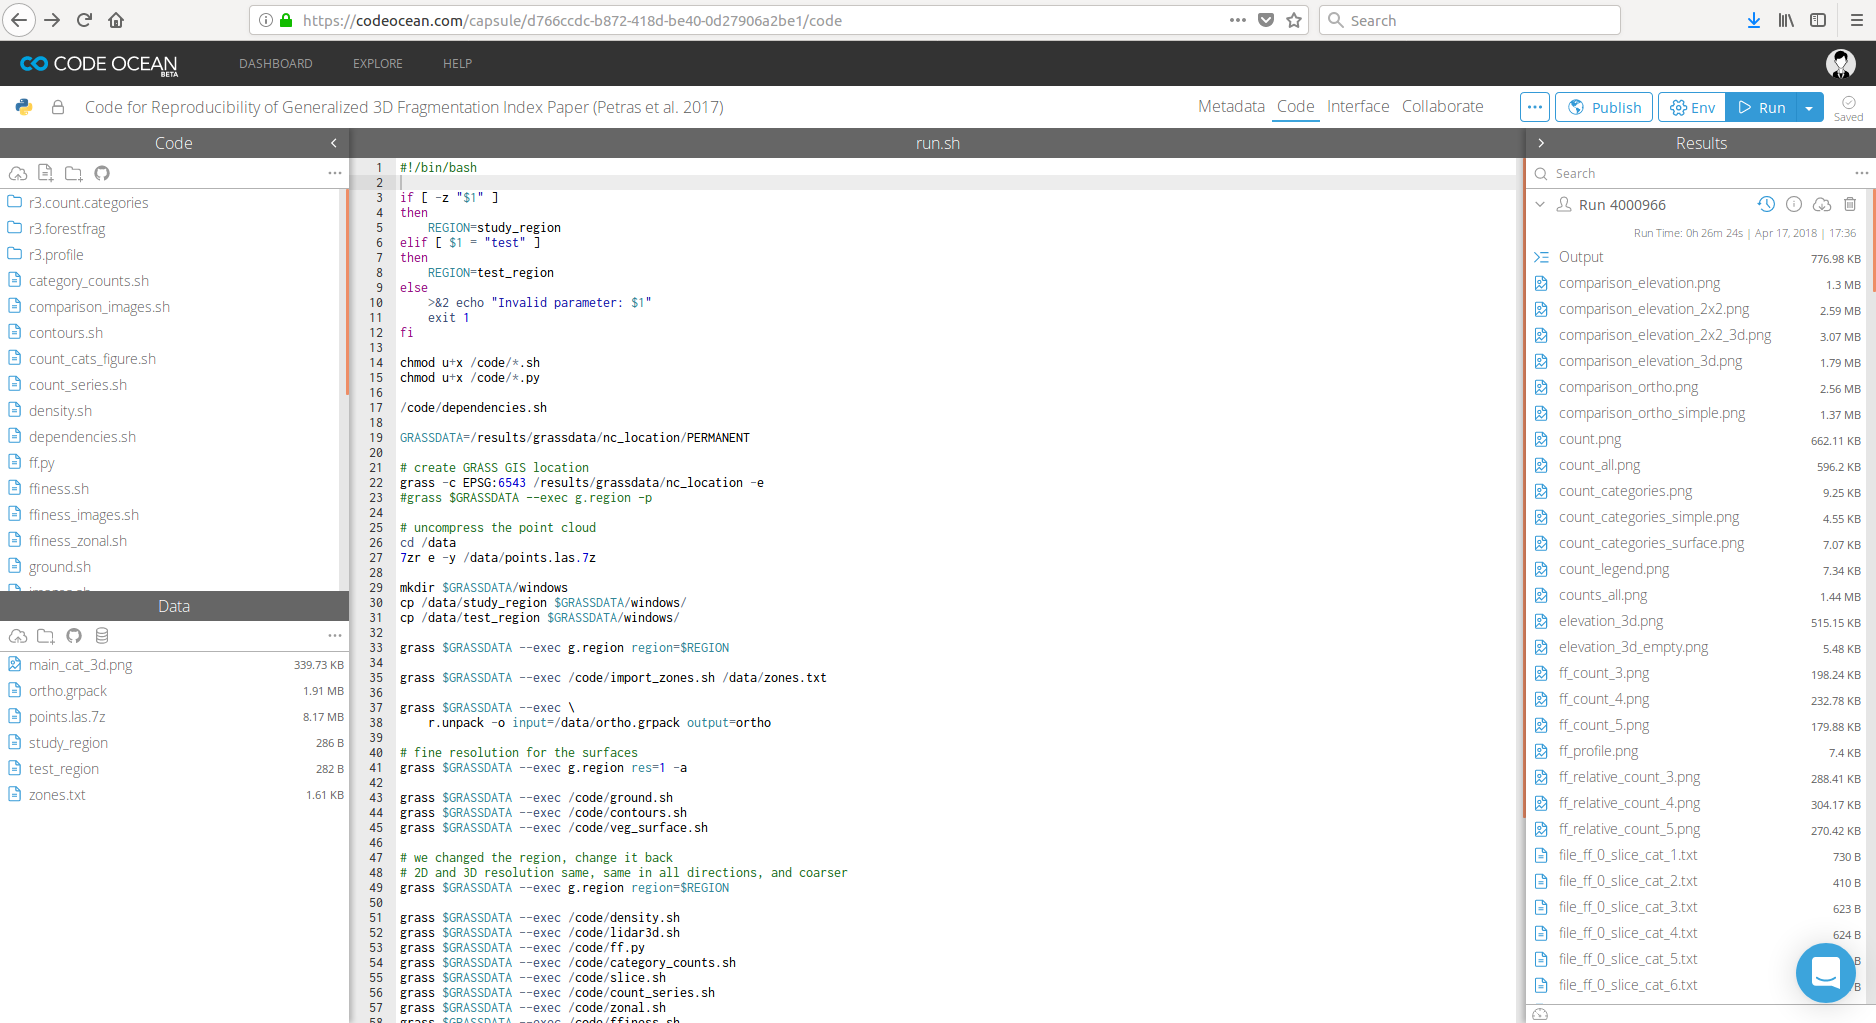
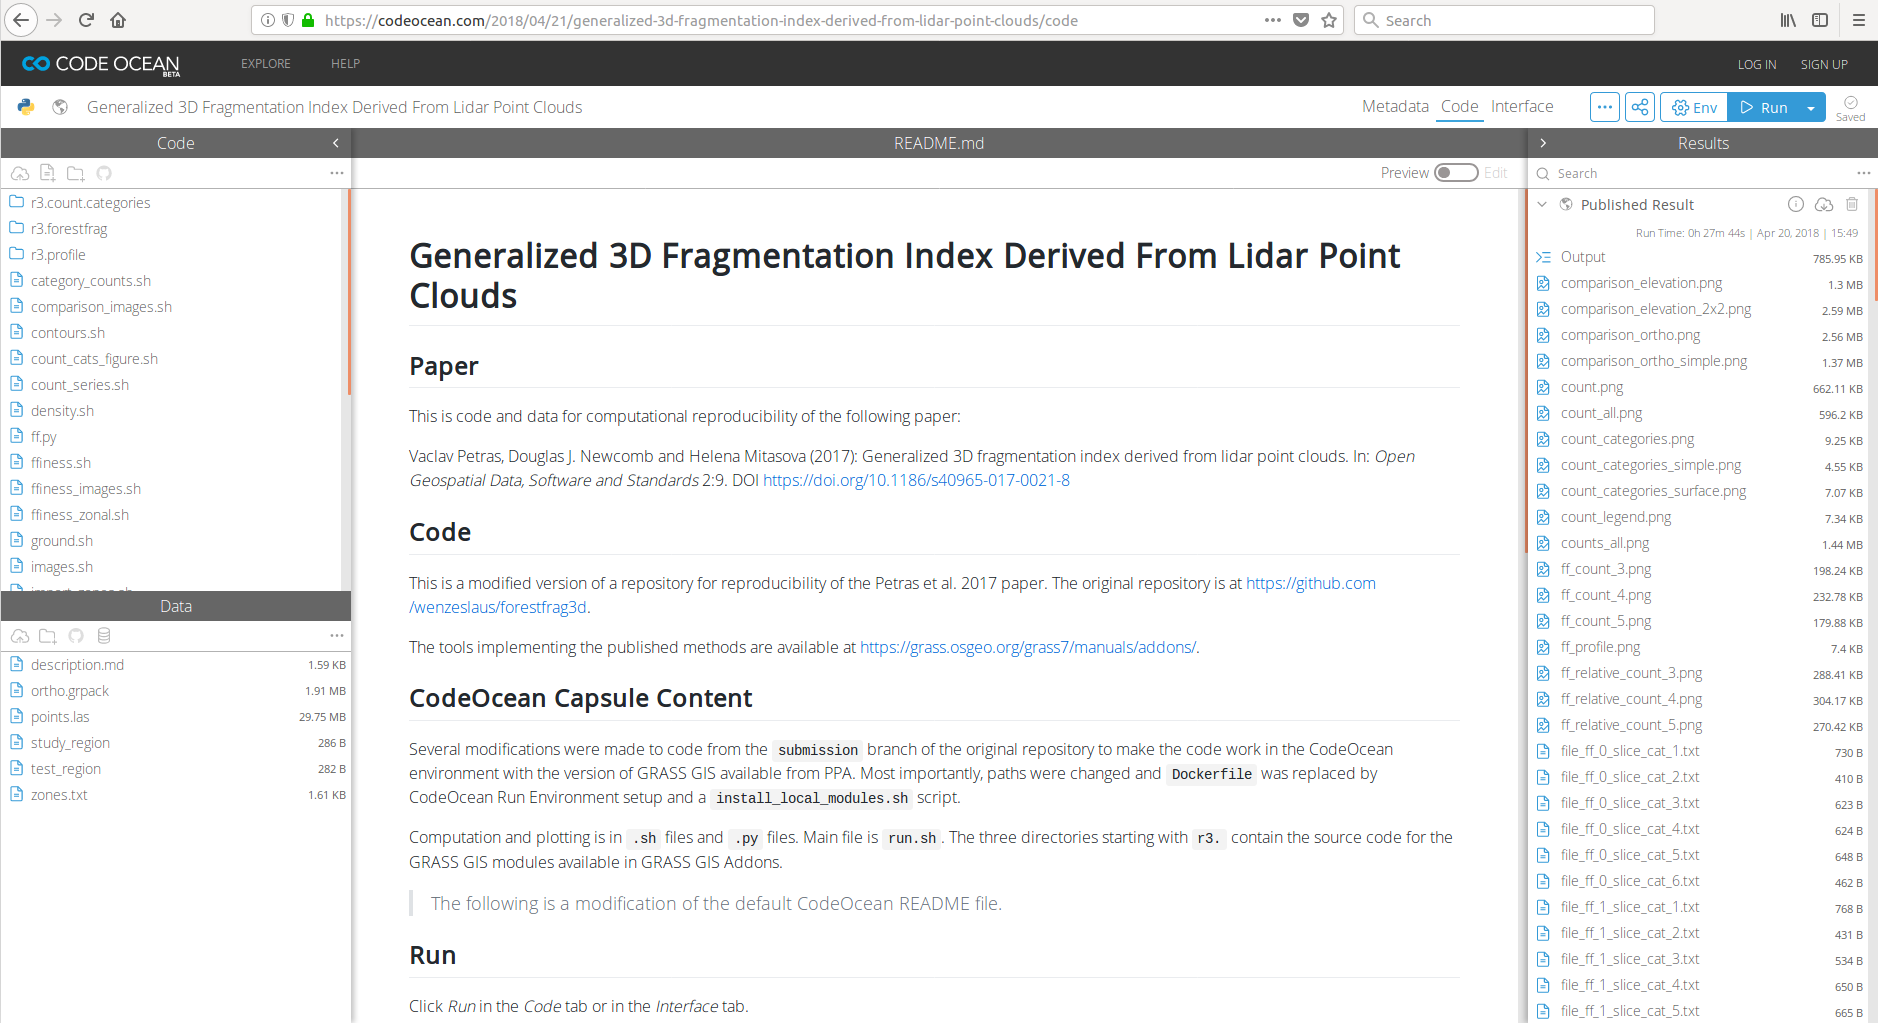
finish code ocean

diff --git a/index.html b/index.html
@@ -109,10 +109,15 @@
         <li>Reproducibility and open science
             <!-- enabling code reuse and thorough review -->
             <ul>
-                <li>Go to <a href="https://codeocean.com/...">https://codeocean.com/...</a>
+                <li>Go to
+                    <a href="https://codeocean.com/2018/04/21/generalized-3d-fragmentation-index-derived-from-lidar-point-clouds/" title="Goes directly to the capsule">
+                        codeocean.com
+                    </a>
+                <li>Search for &ldquo;petras&rdquo;
+                <li>Select &ldquo;Generalized 3D Fragmentation Index Derived From Lidar Point Clouds&rdquo;
                 <li>Run the code
                     <img style="display: inline; height: 1em; margin: 0px; padding: 0px; border-radius: 3px;" src="img/codeocean_run_button.png">
-                <li>Create an account <small>(name, email, password)</small>
+                <li>Create an account <small>(name, email, password + ToU &amp; PP)</small>
             </ul>
     </ul>
     <br>
@@ -893,9 +898,21 @@ sys  0m0.200s
 
 <section>
     <h3>Reproducibility</h3>
-    Finished recomputation at CodeOcean
+    <ul>
+        <li>finished recomputation at Code Ocean*
+    </ul>
     <br>
     <img class="stretch" src="img/codeocean_frag_interface.png">
+    <small>
+        Results in the <em>Interface</em> tab:
+        <a href="https://codeocean.com/2018/04/21/generalized-3d-fragmentation-index-derived-from-lidar-point-clouds/interface" title="Goes directly to the capsule interface">
+            codeocean.com/2018/04/21/generalized...clouds/interface
+        </a>
+    </small>
+    <br>
+    <small style="font-size: 75%;">
+        *usual runtime 27 min
+    </small>
 </section>
 
 
@@ -1081,6 +1098,7 @@ sys  0m0.200s
     </ul>
     <br>
     <img class="stretch" src="img/dark_forest.png">
+    <p><a href="https://wenzeslaus.github.io/dissertation-presentation/">wenzeslaus.github.io/dissertation-presentation</a></p>
 </section>
 
 
